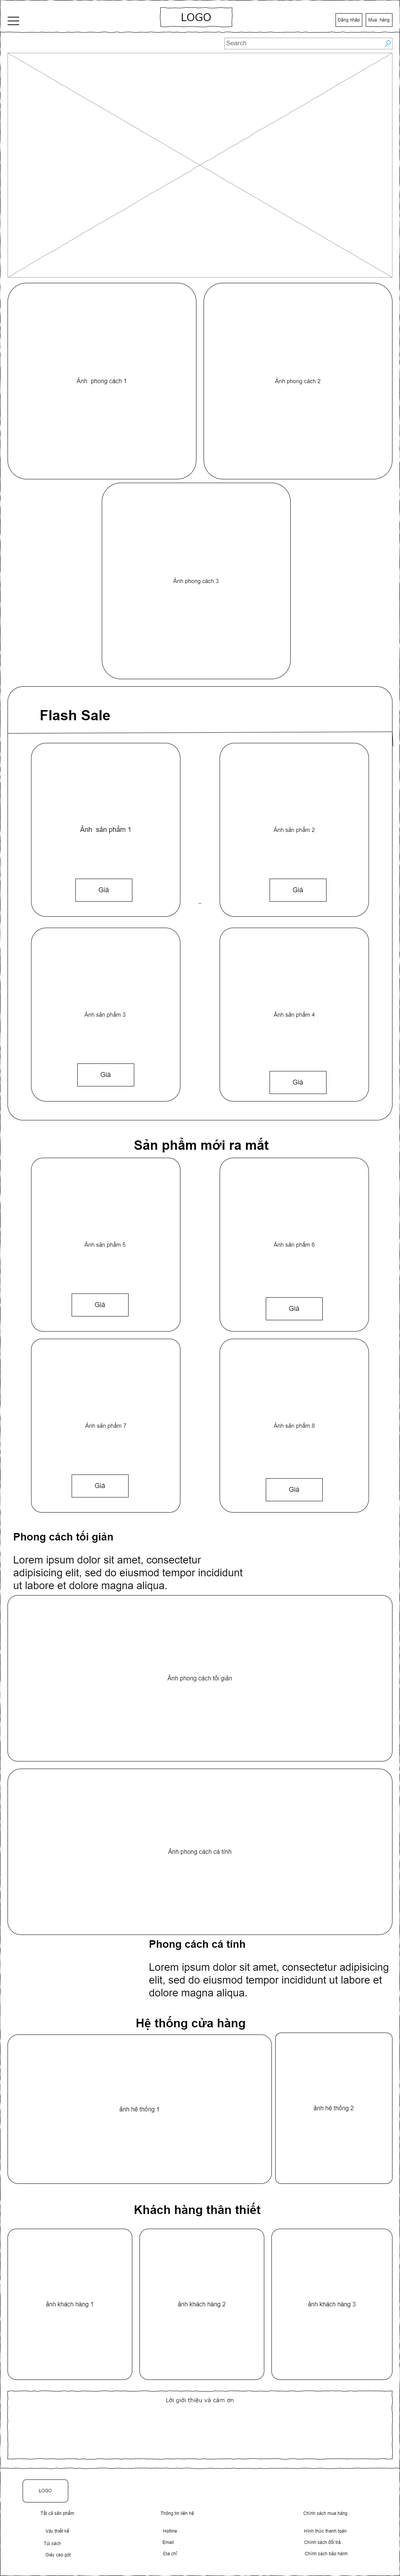
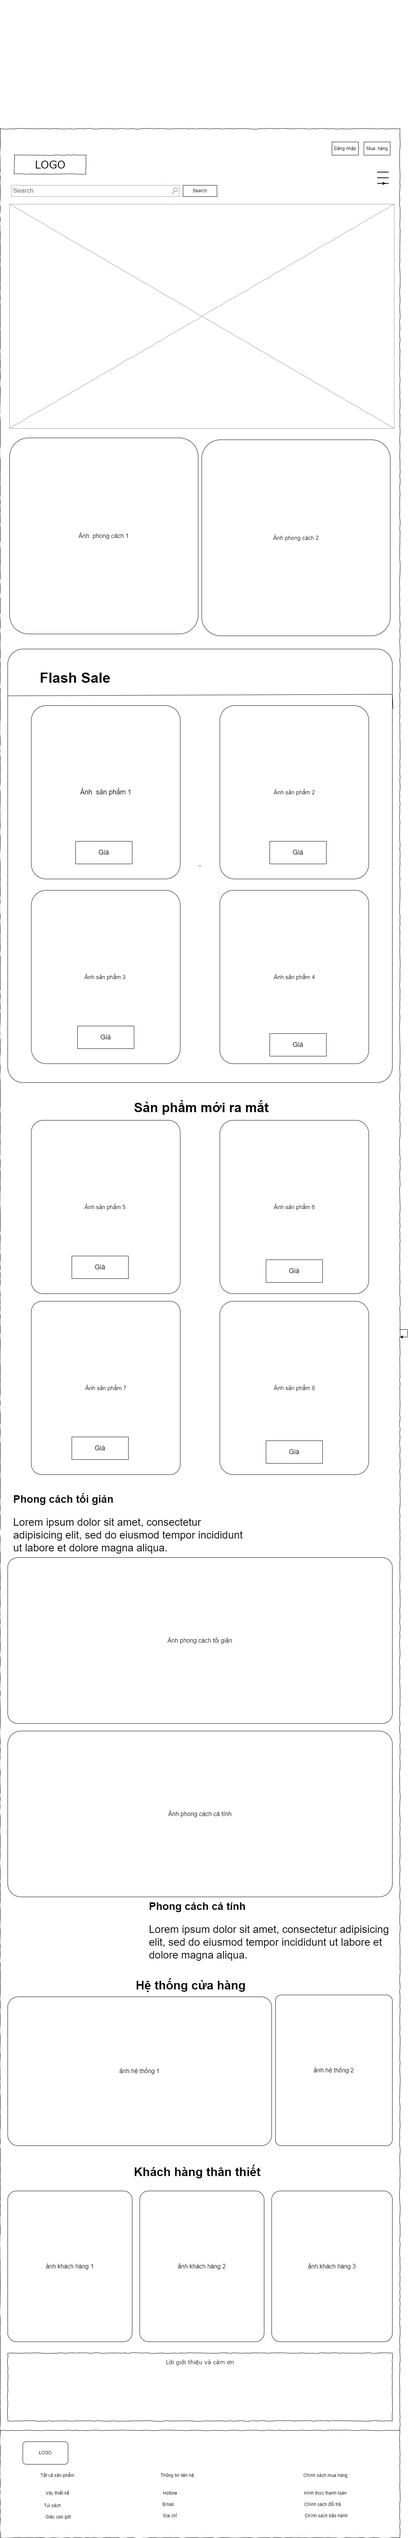
asm1

diff --git a/index.html b/index.html
@@ -12,26 +12,18 @@
 </head>
 
 <body>
-    <header>
-        
-        <div class="container">
-            <ul>
-                <li><a class="item" href="">Liên hệ</a></li>
-                <li><a class="item" href="">Thông tin</a></li>
-                <li><a class="item" href="">Tài khoản</a></li>
-                <li><a class="item" href="">Mua hàng</a></li>
-            </ul>
-        </div>
-    </header>
-    
+
+
     <nav class="navbar navbar-expand-lg bg-body-tertiary">
         <div class="container-fluid">
             <a class="navbar-brand" href="#"><img style="height: 2em;" src="Image/imageindex/logo.png" alt=""></a>
-            <button class="navbar-toggler" type="button" data-bs-toggle="collapse" data-bs-target="#navbarSupportedContent" aria-controls="navbarSupportedContent" aria-expanded="false" aria-label="Toggle navigation">
+            <button class="navbar-toggler" type="button" data-bs-toggle="collapse"
+                data-bs-target="#navbarSupportedContent" aria-controls="navbarSupportedContent" aria-expanded="false"
+                aria-label="Toggle navigation">
                 <span class="navbar-toggler-icon"></span>
             </button>
             <div class="collapse navbar-collapse" id="navbarSupportedContent">
-                <ul class="navbar-nav me-auto mb-2 mb-lg-0">
+                <ul class="navbar-nav me-auto mb-2 mb-lg-0" style="color: black;">
                     <li class="nav-item">
                         <a class="nav-link active" aria-current="page" href="#">Trang chủ</a>
                     </li>
@@ -46,21 +38,22 @@
                     </li>
                     <li class="nav-item">
                         <a class="nav-link" href="#">Vận chuyển</a>
-                    </li>  
+                    </li>
                 </ul>
             </div>
             <div>
                 <form class="d-flex" role="search">
-                <input class="form-control me-2" type="search" placeholder="Search" aria-label="Search">
-                <button class="btn btn-outline-success" type="submit" style="color: black; border: 1px solid gray;">Search</button>
+                    <input class="form-control me-2" type="search" placeholder="Search" aria-label="Search">
+                    <button class="btn btn-outline-success" type="submit"
+                        style="color: black; border: 1px solid gray;">Search</button>
                 </form>
             </div>
         </div>
-      </nav>
+    </nav>
 
     <div class="container1">
         <ul class="danhmuc">
-            <li class="b">Danh mục sản phẩm</li>
+            <li class="b">Danh mục </li>
             <li class="item2">Vát thiết kế</li>
             <li class="item2">Túi sách</li>
             <li class="item2">Giày cao gót</li>
@@ -150,7 +143,9 @@
         <div><img src="Image/imageindex/hethong2.jpg" alt=""></div>
     </div>
     <div>
-        <div><p class="textspn" style="text-align: center;">KHÁCH HÀNG THÂN THIẾT</p></div>
+        <div>
+            <p class="textspn" style="text-align: center;">KHÁCH HÀNG THÂN THIẾT</p>
+        </div>
         <div class="khachhang">
             <div><img src="Image/imageindex/khachhang1.jpg" alt=""></div>
             <div><img src="Image/imageindex/khachhang2.jpg" alt=""></div>
@@ -158,8 +153,10 @@
         </div>
     </div>
     <div class="thanks">
-        <p  class="textspn" style="text-align: center;">LỜI CẢM ƠN</p>
-        <p>Lorem ipsum dolor sit amet, consectetur adipisicing elit. Est, reiciendis explicabo suscipit eos molestias voluptate veniam ad fugit? Obcaecati aliquam illo consequuntur iste temporibus quae laborum totam suscipit accusamus sed, necessitatibus perferendis odit tenetur modi natus harum enim, voluptate magnam!</p>
+        <p class="textspn" style="text-align: center;">LỜI CẢM ƠN</p>
+        <p>Lorem ipsum dolor sit amet, consectetur adipisicing elit. Est, reiciendis explicabo suscipit eos molestias
+            voluptate veniam ad fugit? Obcaecati aliquam illo consequuntur iste temporibus quae laborum totam suscipit
+            accusamus sed, necessitatibus perferendis odit tenetur modi natus harum enim, voluptate magnam!</p>
     </div>
     <div class="footer">
         <div>
@@ -192,7 +189,7 @@
                 </ul>
             </div>
         </div>
-        
+
     </div>
     <script src="https://cdn.jsdelivr.net/npm/bootstrap@5.3.0-alpha2/dist/js/bootstrap.bundle.min.js
     "></script>

diff --git a/CSS/index.css b/CSS/index.css
@@ -28,7 +28,6 @@ body {
 ul{
     list-style: none;
 }
-
 li a {
     text-decoration: none;
     color: black;
@@ -223,8 +222,15 @@ nav li a {
     grid-template-columns: repeat(3, 30%);
     justify-content: space-around;
 }
+
+@media screen and (max-width: 1100px) {
+    .d-flex{
+        display: none!important;
+    }
+
+}
 @media screen and (max-width:700px) {
-    .container{
+    .none {
         display: none;
     }
     .form-control {
@@ -256,8 +262,7 @@ nav li a {
         grid-template-columns: 45% 45%;
     }
     .styles{
-        grid-template-columns: 90%;
-        
+        grid-template-columns: 90%;  
     }
     .text {
         display: flex;
